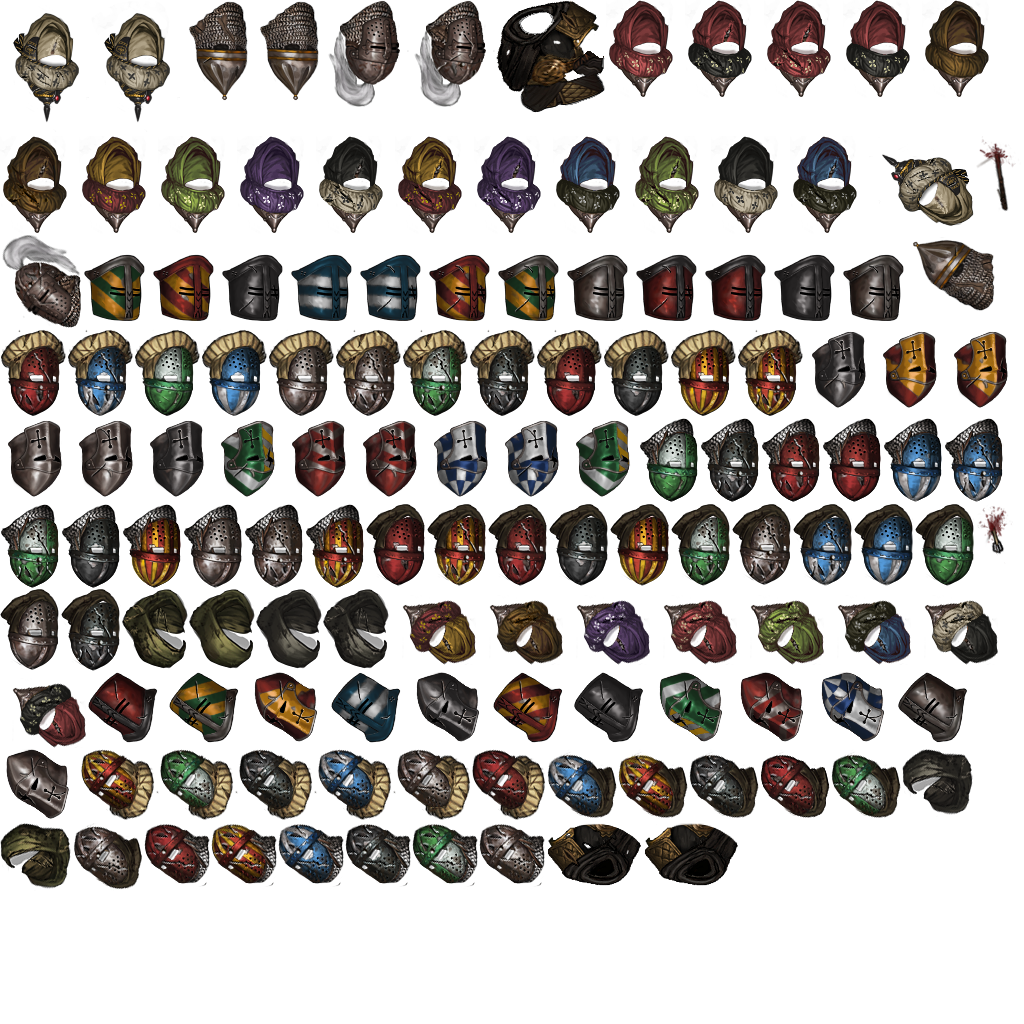
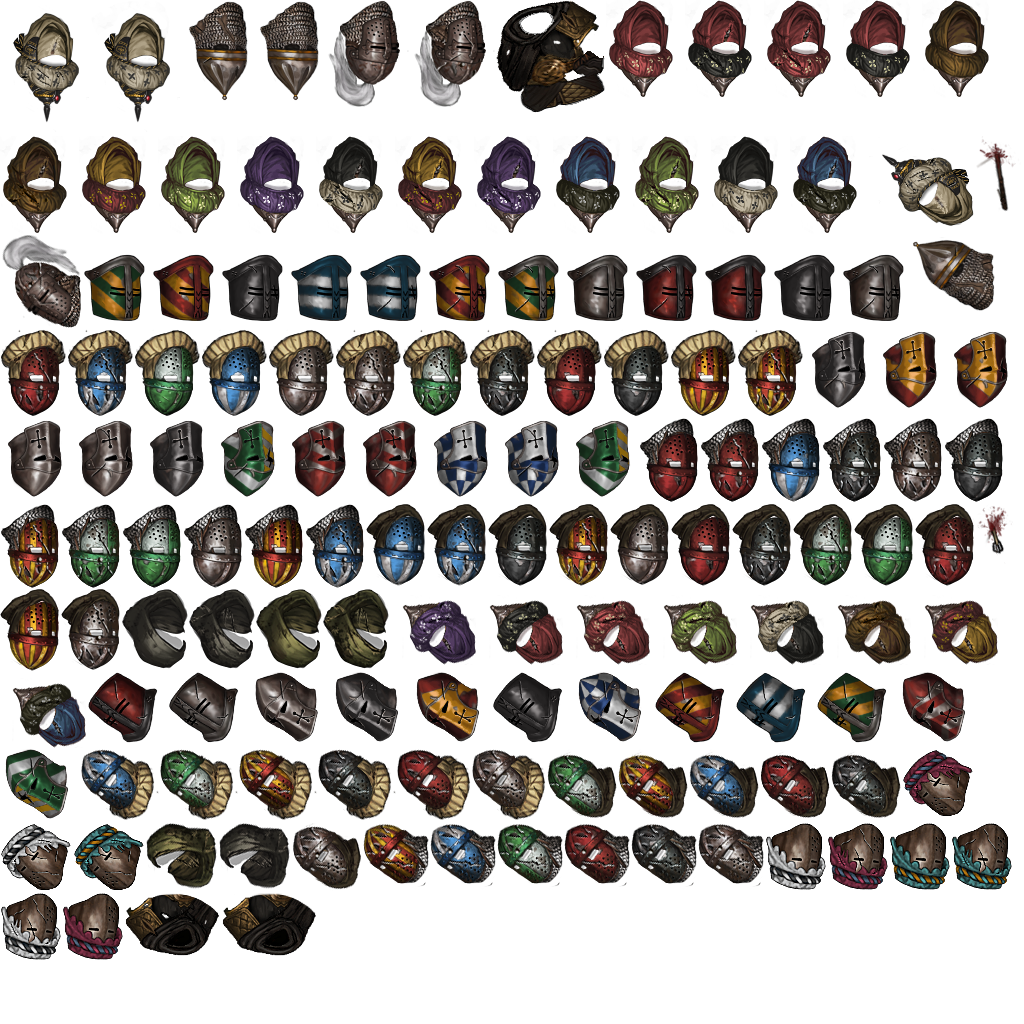
Release v3.4
Changelog:
- Add Decorated Great Helm, acquirable by hiring Oathtakers (and looting
  dead Oathbringers)
- Remove Iron Pot Helm distribution script, effectively deprecating it.
  The helm will be removed and packaged into a different mod in the
  future. Saves made with v3.3 ARE compatible and will continue to work;
  new Iron Pot Helms will simply stop showing up in shops.
- Use cfg in build/install scripts

Changed region(s): [[0.0, 0.4062, 1.0, 0.9375], [0.0, 0.5, 0.25, 0.7188]]

diff --git a/README.md b/README.md
@@ -23,7 +23,7 @@ Adds new equipment to the game, including:
 - **[Barbute with Visor](./screenshots/BarbuteWithVisorItemCard.png)**, a 240/-13 helmet with 5 color variants (it's paintable!). Spawns (very occasionally) in Armorsmiths, just like the regular barbute.
 - **[Plumed Bascinet with Visor](./screenshots/BascinetWithVisorItemCard.png)**, a 270/-18 helmet to match the the Blazing Deserts cover art. Spawns in Armorsmiths and on Hedge Knights.
 - **[Closed Conic Helmet](./screenshots/ClosedConicHelmetItemCard.png)**, a 3 tiered set of helms to match the Closed Flat Top Helmets (145/-8, 160/-9, and 250/-16). Spawns in Armorsmiths, and some varieties can spawn on Mercenaries.
-- **[Iron Pot Helm](./screenshots/IronPotHelmItemCard.png)**, a 330/-28 helmet with 5 color variants (it's also paintable!). Spawns (very occasionally)in Armorsmiths.
+- **[Iron Pot Helm](./screenshots/IronPotHelmItemCard.png)**, a 325/-23 helmet with 3 color variants. Spawns on Oathtakers and Oathbringers.
 
 ## Requirements
 

diff --git a/screenshots/README.md b/screenshots/README.md
@@ -28,6 +28,6 @@
 
 <img src="./ClosedConicHelmetItemCard.png" width="800">
 
-## Iron Pot Helm
+## Decorated Great Helm
 
-<img src="./IronPotHelmItemCard.png" width="600">
+<img src="./DecoratedGreatHelmItemCard.png" width="600">
